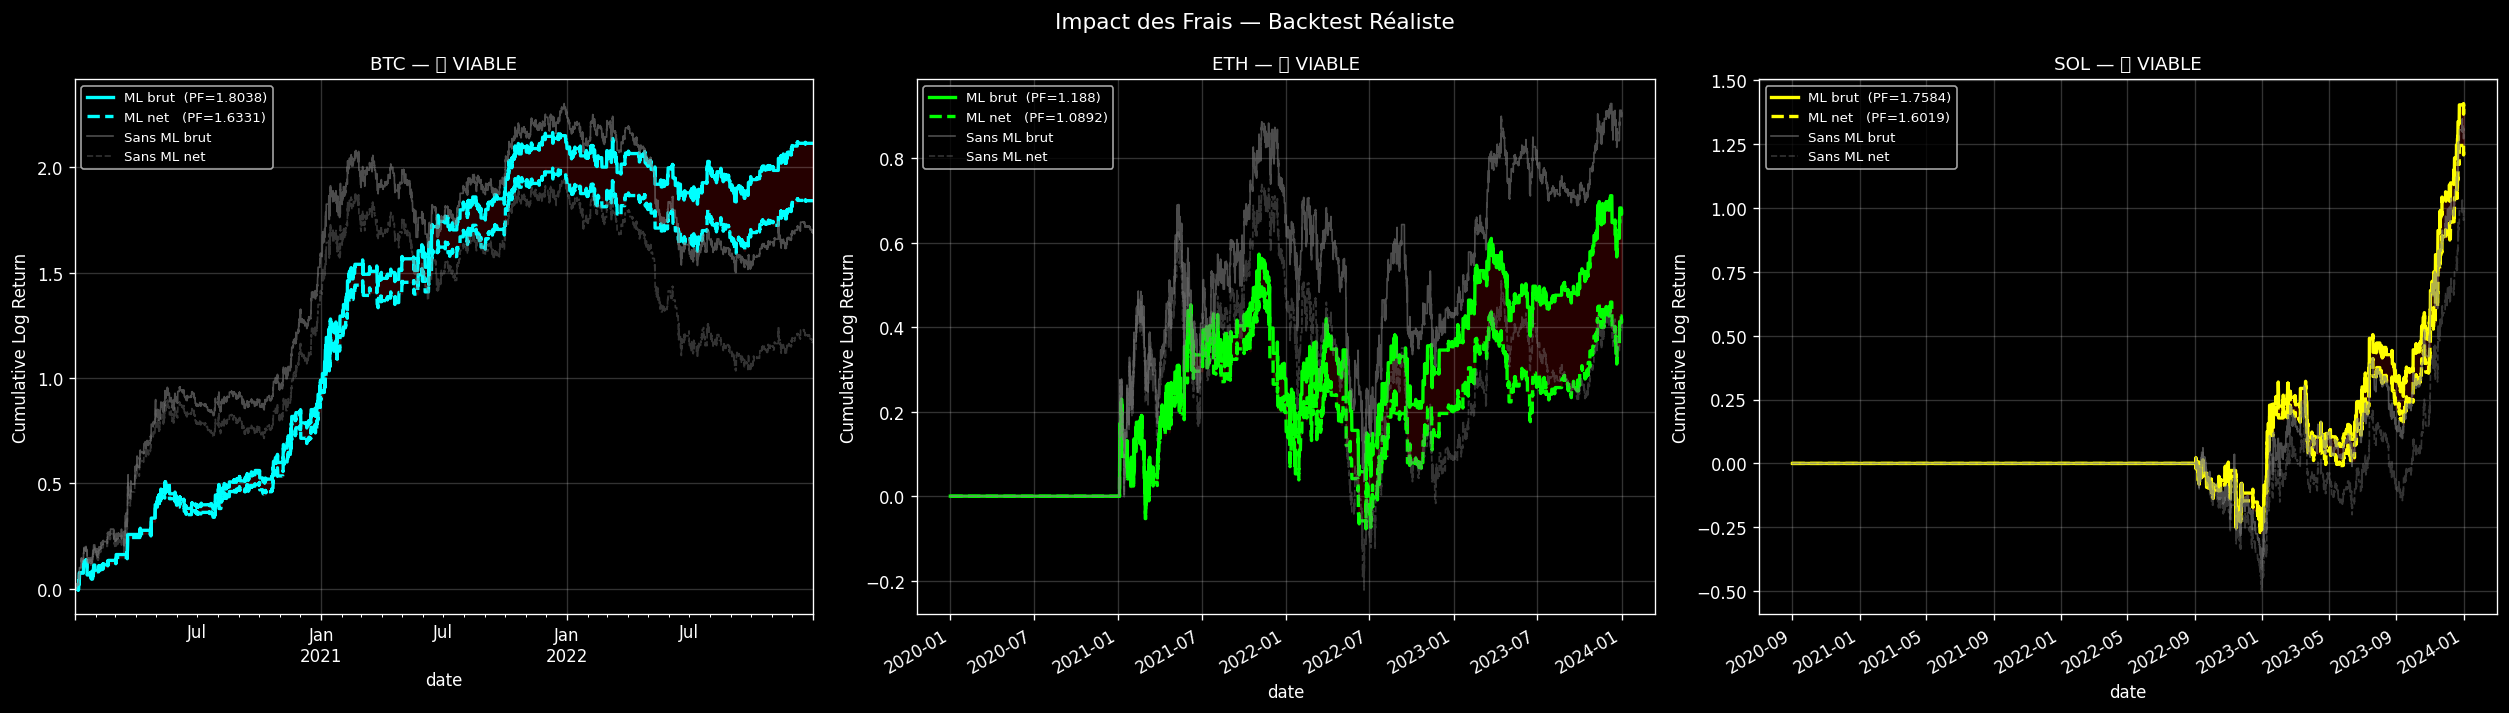
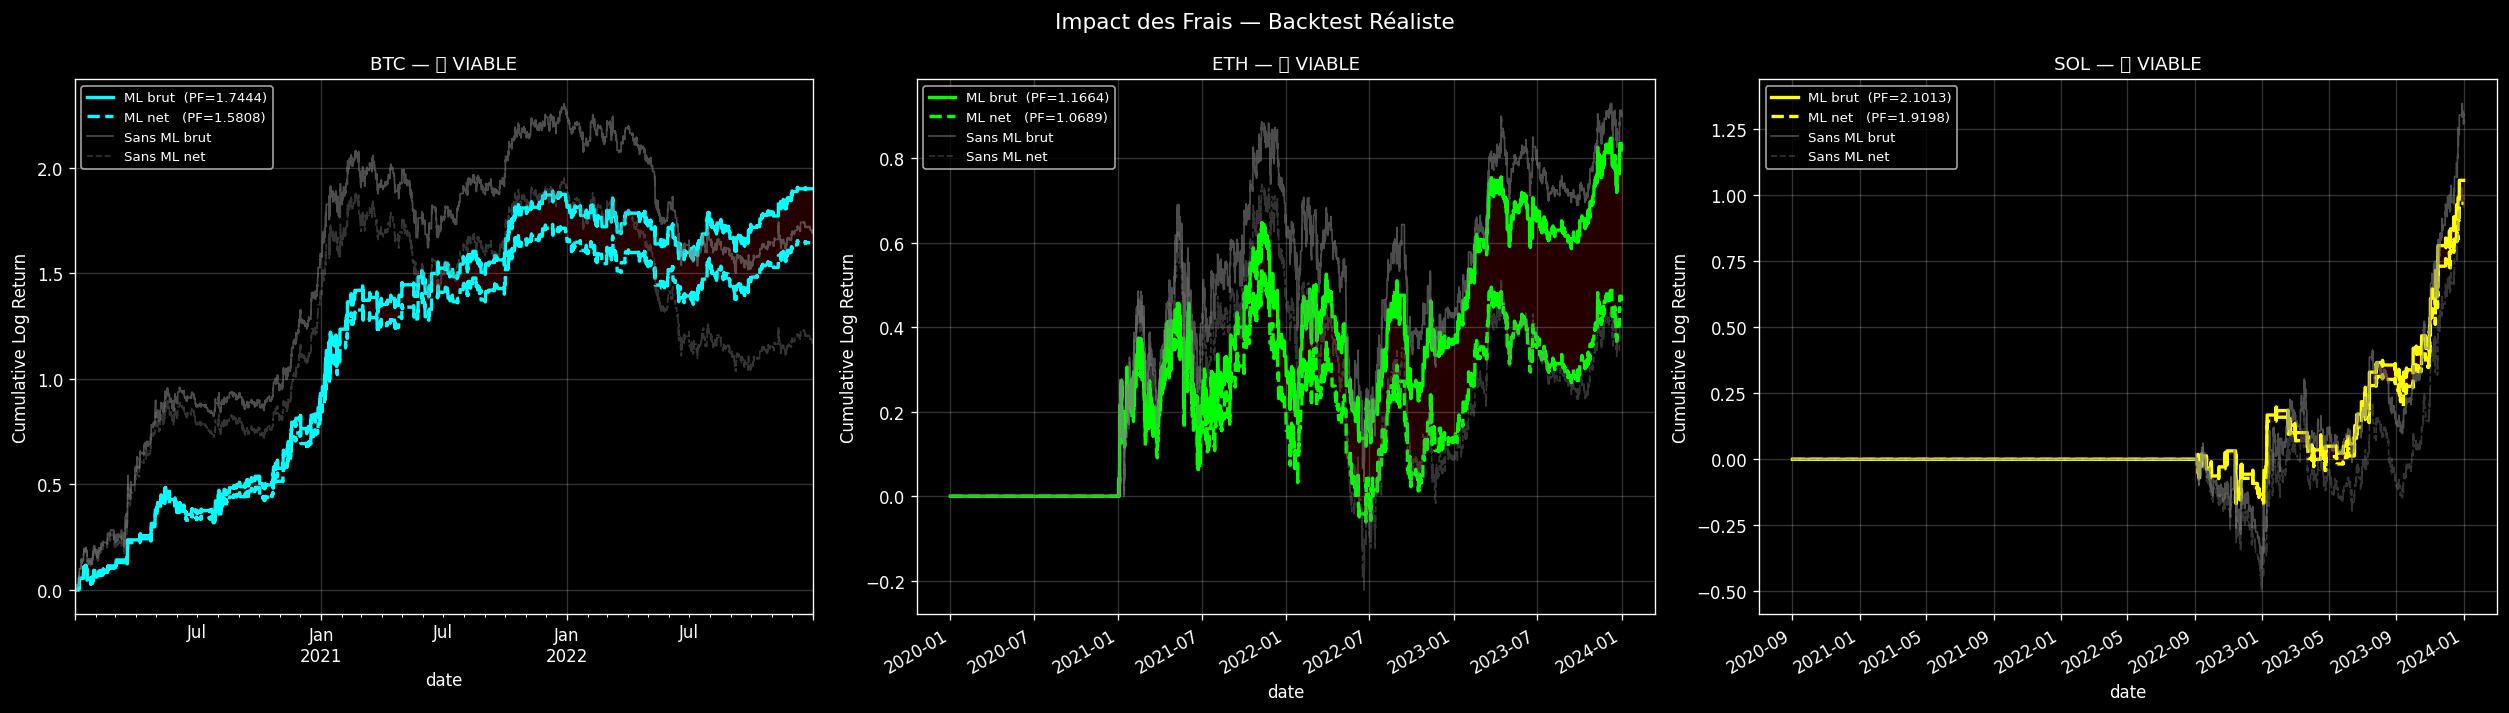
modified:   TrendlineBreakoutMetaLabel/__pycache__/walkforward_multi.cpython-313.pyc 	new file:   TrendlineBreakoutMetaLabel/__pycache__/walkforward_with_fees.cpython-313.pyc 	modified:   TrendlineBreakoutMetaLabel/backtest_with_fees.png 	new file:   TrendlineBreakoutMetaLabel/paper_trading_backtest

diff --git a/TrendlineBreakoutMetaLabel/paper_trading_backtest.py b/TrendlineBreakoutMetaLabel/paper_trading_backtest.py
@@ -1,0 +1,187 @@
+"""
+paper_trading_backtest.py
+-------------------------
+Simulateur de gestion de portefeuille ("Paper Trading" historique)
+basé sur les prédictions du modèle XGBoost et les seuils optimisés.
+Gère un solde en dollars réels, dimensionne les positions, 
+et applique les frais Deriv.
+"""
+
+import numpy as np
+import pandas as pd
+import matplotlib.pyplot as plt
+import os
+import matplotlib.dates as mdates
+
+from walkforward_multi import load_pair, walkforward_multi
+from walkforward_with_fees import apply_fees, FEES
+
+# Seuils ML optimisés empiriquement (Profit Factor maximum)
+THRESHOLDS = {
+    'BTC': 0.52,
+    'ETH': 0.38,
+    'SOL': 0.64
+}
+
+INITIAL_BALANCE = 10000.0   # Capital de départ en USD
+RISK_PER_TRADE  = 0.03      # On risque 3% du capital par trade sur le Stop Loss respectif
+MAX_LEVERAGE    = 3.0       # Levier maximum autorisé pour contrôler le risque global
+
+
+def run_portfolio_simulation():
+    print(f"\nSimulation de Portefeuille (Capital: ${INITIAL_BALANCE:,.0f} | Risque/Trade: {RISK_PER_TRADE*100}%)\n" + "="*70)
+    
+    # 1. Charger les données cibles
+    pairs_data = {}
+    for sym in ['BTC', 'ETH', 'SOL']:
+        path = f"data/{sym}USDT3600.csv" if sym != 'BTC' else 'BTCUSDT3600.csv'
+        if os.path.exists(path):
+            pairs_data[sym] = load_pair(path)
+            
+    if not pairs_data:
+        print("❌ Aucune donnée de marché disponible.")
+        return
+
+    # 2. Exécuter le modèle d'Intelligence Artificielle sur l'historique
+    print("🧠 Génération des prédictions Walk-Forward XGBoost...")
+    results = walkforward_multi(
+        pairs_data,
+        lookback    = 72,
+        hold_period = 24,
+        train_size  = 365 * 24 * 2,
+        step_size   = 365 * 24,
+        thresholds  = THRESHOLDS
+    )
+
+    # 3. Récolter tous les trades viables de l'IA
+    all_trades = []
+    print("\nFiltre des positions via les seuils IA...")
+    for name, res in results.items():
+        df     = res['df']
+        trades = res['trades'].dropna(subset=['model_prob']).copy()
+        
+        # 3.a : Appliquer les frais réels logiques ( spread + swap par Deriv )
+        trades = apply_fees(trades, name)
+        
+        # 3.b : Ne garder QUE les trades autorisés par l'IA (prob >= seuil d'exigence)
+        thresh = THRESHOLDS.get(name, 0.5)
+        filtered_trades = trades[trades['model_prob'] >= thresh].copy()
+        print(f"  → {name:3} autorisé: {len(filtered_trades)} trades (Seuil: {thresh})")
+        
+        # Exclure les trades ouverts à la toute fin du dataset qui n'ont pas encore de date de sortie
+        filtered_trades = filtered_trades.dropna(subset=['entry_i', 'exit_i']).copy()
+        
+        if len(filtered_trades) > 0:
+            # 3.c : Traduire les dates pour le simulateur de compte
+            filtered_trades['entry_date'] = df.index[filtered_trades['entry_i'].astype(int)]
+            filtered_trades['exit_date']  = df.index[filtered_trades['exit_i'].astype(int)]
+            filtered_trades['pair']       = name
+            all_trades.append(filtered_trades)
+
+    if not all_trades:
+        print("\n❌ Aucun trade validé par l'IA.")
+        return
+
+    # Fusionner le carnet d'ordres
+    # On trie chronologiquement par DATE DE SORTIE pour simuler l'arrivée du PnL Cash Flow
+    carnet_ordres = pd.concat(all_trades).sort_values('exit_date').reset_index(drop=True)
+
+    # 4. Exécuter le moteur financier (Money Management)
+    print("\n📈 Lancement du moteur de Paper Trading...")
+    balance_history = []
+    balance = INITIAL_BALANCE
+    
+    for i, row in carnet_ordres.iterrows():
+        # Prix réels d'entrée et de Stop Loss de l'Asset (dés-loggés)
+        entry_price = np.exp(row['entry_p'])
+        sl_price    = np.exp(row['sl'])
+        
+        # Quel % de l'Action le Stop Loss représente-t-il ?
+        sl_distance_pct = abs((entry_price - sl_price) / entry_price)
+        sl_distance_pct = max(0.005, sl_distance_pct) # Sécurité mathématique (min 0.5% d'écart)
+        
+        # Calcul Professionnel de Position : On place (X Dollars) dont la perte au SL = [3%] du Compte Courant
+        capital_at_risk = balance * RISK_PER_TRADE
+        position_size   = capital_at_risk / sl_distance_pct
+        
+        # Limite de garde-fou : Si SL très très serré, ça demanderait d'acheter 15x plus que ce qu'on possède.
+        # On plafonne le trade à MAX_LEVERAGE * Compte
+        if position_size > balance * MAX_LEVERAGE:
+            position_size = balance * MAX_LEVERAGE
+            
+        # PnL réel en Dollars. "row['return']" contient déjà la purge finale des frais d'échange.
+        net_return_pct = np.exp(row['return']) - 1
+        pnl_usd        = position_size * net_return_pct
+        
+        # Mettre à jour le solde du compte
+        balance += pnl_usd
+        balance = max(1.0, balance) # Liquidation totale
+        
+        balance_history.append({
+            'date': row['exit_date'],
+            'pair': row['pair'],
+            'pnl_usd': pnl_usd,
+            'balance': balance,
+            'pos_size': position_size,
+            'roi_pct': net_return_pct * 100
+        })
+
+    # 5. Calcul des métriques & Graphiques
+    history_df = pd.DataFrame(balance_history)
+    history_df.set_index('date', inplace=True)
+    
+    final_balance = balance
+    net_profit    = final_balance - INITIAL_BALANCE
+    roi           = (net_profit / INITIAL_BALANCE) * 100
+    
+    # Calcul Drawdown Max
+    peaks = history_df['balance'].cummax()
+    drawdowns = (history_df['balance'] - peaks) / peaks * 100
+    max_dd = drawdowns.min()
+    
+    wins = len(history_df[history_df['pnl_usd'] > 0])
+    win_rate = (wins / len(history_df)) * 100
+
+    print("="*70)
+    print("  BILAN DU PORTEFEUILLE VIRTUEL (IA METAMODEL)")
+    print("="*70)
+    print(f"  Période           : {history_df.index[0].strftime('%Y-%m-%d')} → {history_df.index[-1].strftime('%Y-%m-%d')}")
+    print(f"  Solde Initial     : ${INITIAL_BALANCE:,.2f}")
+    print(f"  Solde Final       : ${final_balance:,.2f}")
+    print(f"  Profit Net (Cash) : ${net_profit:,.2f}  ({roi:+.2f}%)")
+    print(f"  Max Drawdown      : {max_dd:.2f}%")
+    print(f"  Win Rate global   : {win_rate:.1f}%")
+    print(f"  Total Trades      : {len(history_df)}")
+    print("="*70)
+
+    # Tracé visuel
+    plt.style.use('dark_background')
+    fig, ax = plt.subplots(figsize=(12, 6))
+    
+    ax.plot(history_df.index, history_df['balance'], color='#00ffcc', linewidth=2.5, label='Solde du Compte ($)')
+    ax.axhline(INITIAL_BALANCE, color='gray', linestyle='--', linewidth=1.5, label='Capital Initial')
+    
+    # Remplissage couleur pour pertes (rouge) / gains (vert turquoise)
+    ax.fill_between(history_df.index, history_df['balance'], INITIAL_BALANCE, 
+                    where=(history_df['balance'] >= INITIAL_BALANCE), facecolor='#00ffcc', alpha=0.1)
+    ax.fill_between(history_df.index, history_df['balance'], INITIAL_BALANCE, 
+                    where=(history_df['balance'] < INITIAL_BALANCE), facecolor='#ff3333', alpha=0.1)
+    
+    ax.set_title(f"Simulation Crypto IA\nDépart: ${INITIAL_BALANCE:,.0f} | Risque Fixe: {RISK_PER_TRADE*100}% par Trade | Frais Deriv inclus", 
+                 fontsize=14, pad=15)
+    ax.set_ylabel("Portefeuille (USD)", fontsize=12)
+    ax.grid(alpha=0.2)
+    ax.legend()
+    
+    # Formatage de l'axe X pour dates
+    ax.xaxis.set_major_formatter(mdates.DateFormatter('%Y-%m'))
+    plt.xticks(rotation=45)
+    
+    out_file = 'portfolio_simulation.png'
+    plt.tight_layout()
+    plt.savefig(out_file, dpi=120, bbox_inches='tight')
+    print(f"✓ Capture du graphique sauvegardée 👉 {out_file}")
+
+
+if __name__ == '__main__':
+    run_portfolio_simulation()
